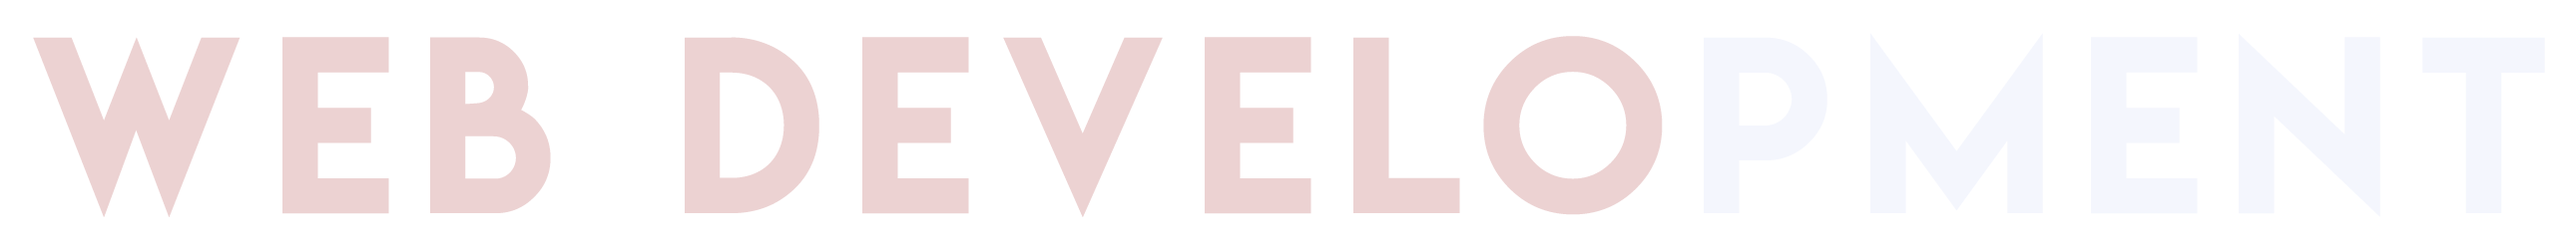
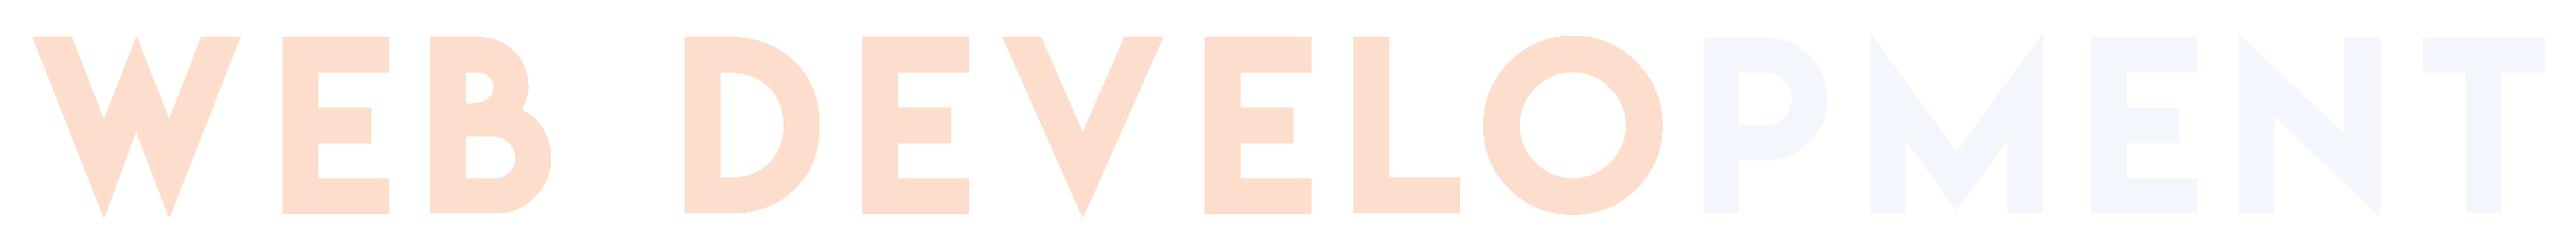
Updated photography tile color

Changed region(s): [[0.4649, 0.83, 0.4959, 0.8577], [0.341, 0.83, 0.3719, 0.8577], [0.124, 0.83, 0.155, 0.8577]]

diff --git a/src/components/homepage/WorkTiles.vue b/src/components/homepage/WorkTiles.vue
@@ -28,7 +28,7 @@
                 <div class="col-1"></div>
             </div>
             <div id="photography-display" class="photography-display">
-                <img src="../../assets/home/1M5A4102-tile.jpg" alt="Photography Tile Image">
+                <img src="../../assets/home/1M5A4102-tile-peach.jpg" alt="Photography Tile Image">
             </div>
             <div class="explore-btn">
                 <h2>Explore</h2>
@@ -86,7 +86,7 @@ export default {
     // TODO: Figure out how to make these global
     $base-cream: #FFFCF4;
     $violet-blue: #F4F6FD;
-    $neutral-pink: #ECD2D1;
+    $neutral-pink: #fddecc;
 
     @mixin aspect-ratio($width, $height) {
     position: relative;

diff --git a/src/App.vue b/src/App.vue
@@ -37,7 +37,7 @@ export default {
     // TODO: Figure out how to make these global
     $base-cream: #FFFCF4;
     $violet-blue: #F4F6FD;
-    $neutral-pink: #ECD2D1;
+    $neutral-pink: #fddecc;
 
     html, body {
       font-family: 'Lato', sans-serif;

diff --git a/src/components/Photography.vue b/src/components/Photography.vue
@@ -70,7 +70,7 @@ export default {
 
 <style scoped lang="scss">
 
-    $neutral-pink: #ECD2D1;
+    $neutral-pink: #fddecc;
 
     .page {
         height: 100vh;
